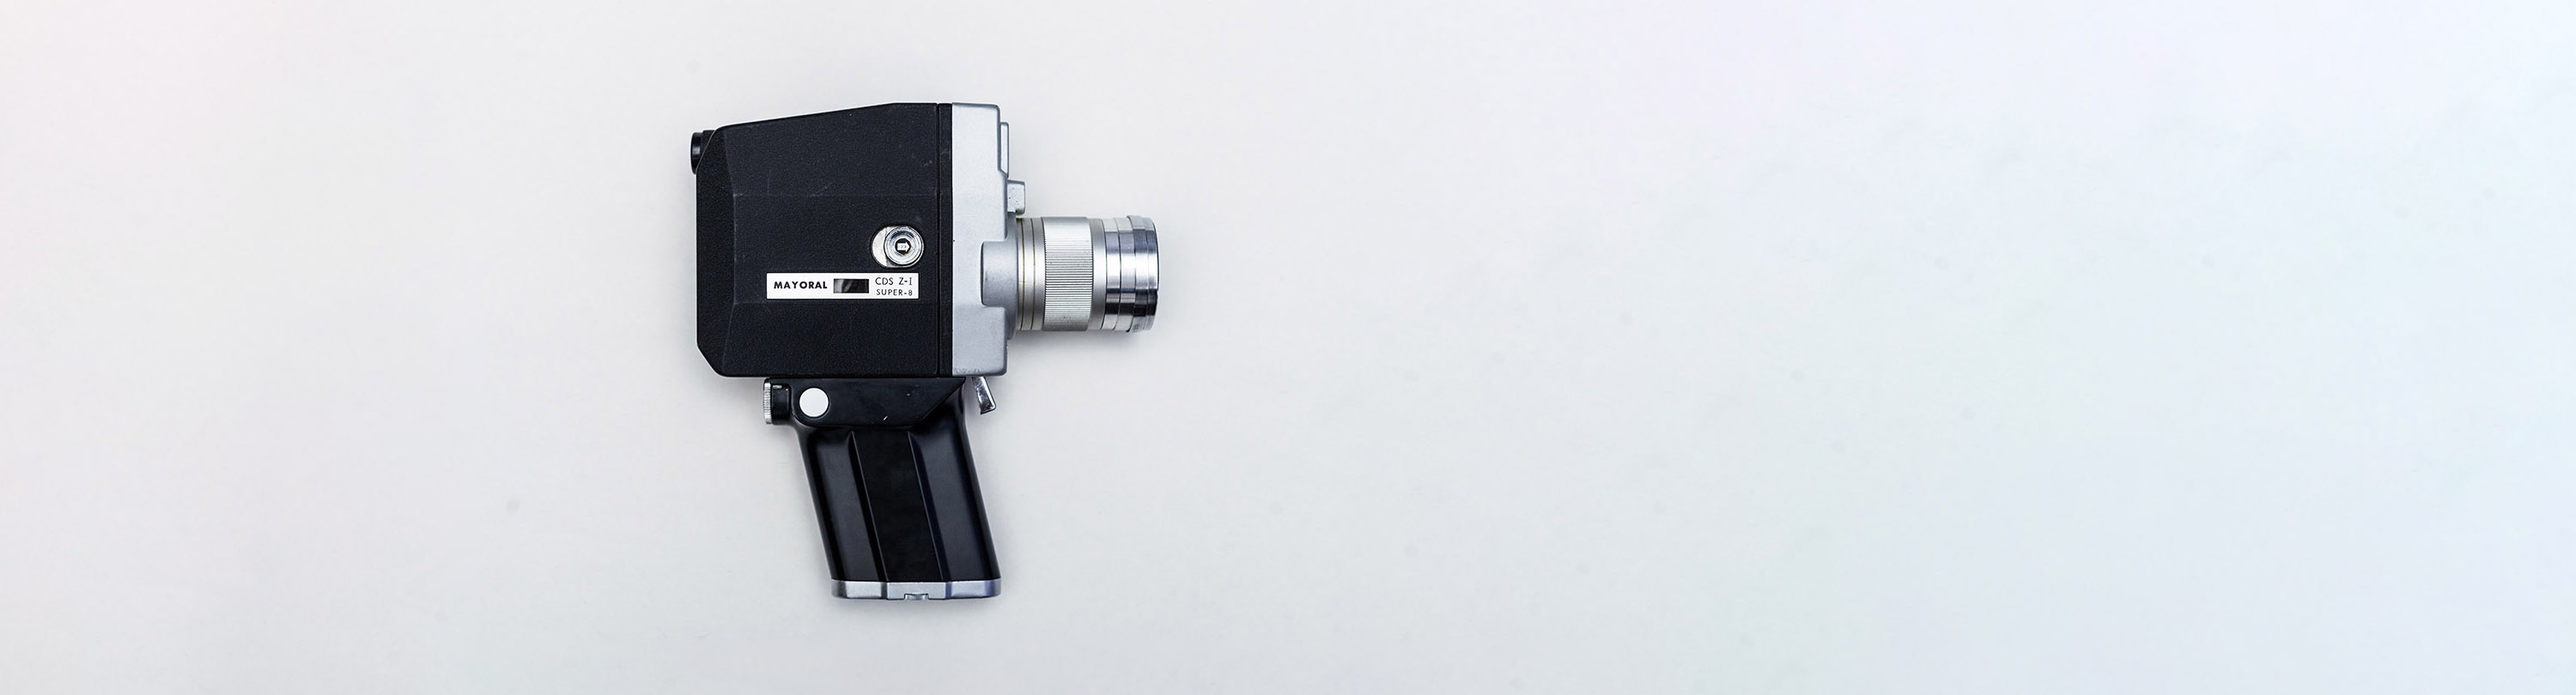
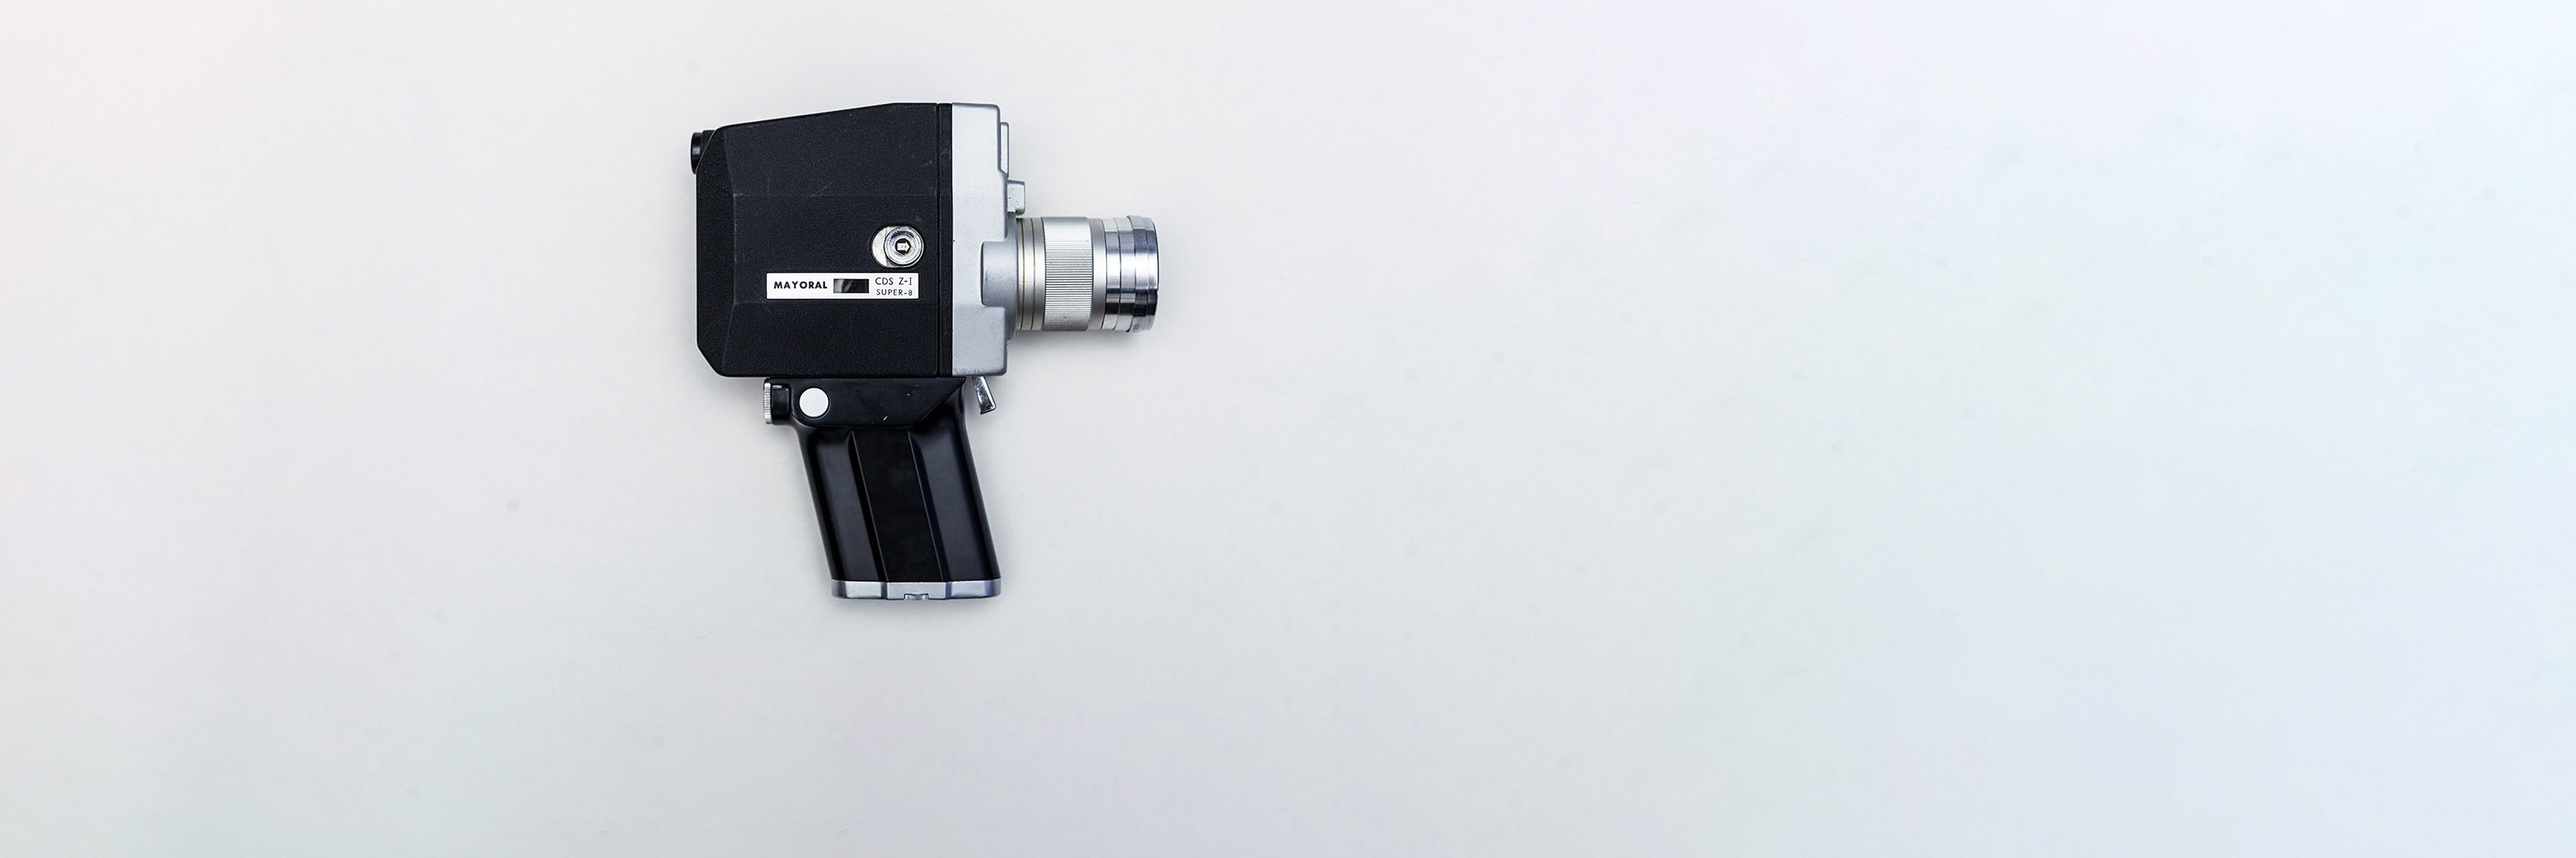
tweaks

Changed region(s): [[0.248, 0.1852, 0.465, 0.8951], [0.248, 0.0926, 0.403, 0.2469]]

diff --git a/index.html b/index.html
@@ -33,9 +33,9 @@
         background-color: #232529;
       }
       section {
-        height: 500px;
+        height: 450px;
         background-size: cover;
-        background-position: center center;
+        background-position: top center;
       }
 
       article {
@@ -50,7 +50,7 @@
       }
 
       .tagline {
-        padding-top: 120px;
+        padding-top: 100px;
       }
 
       h1 {
